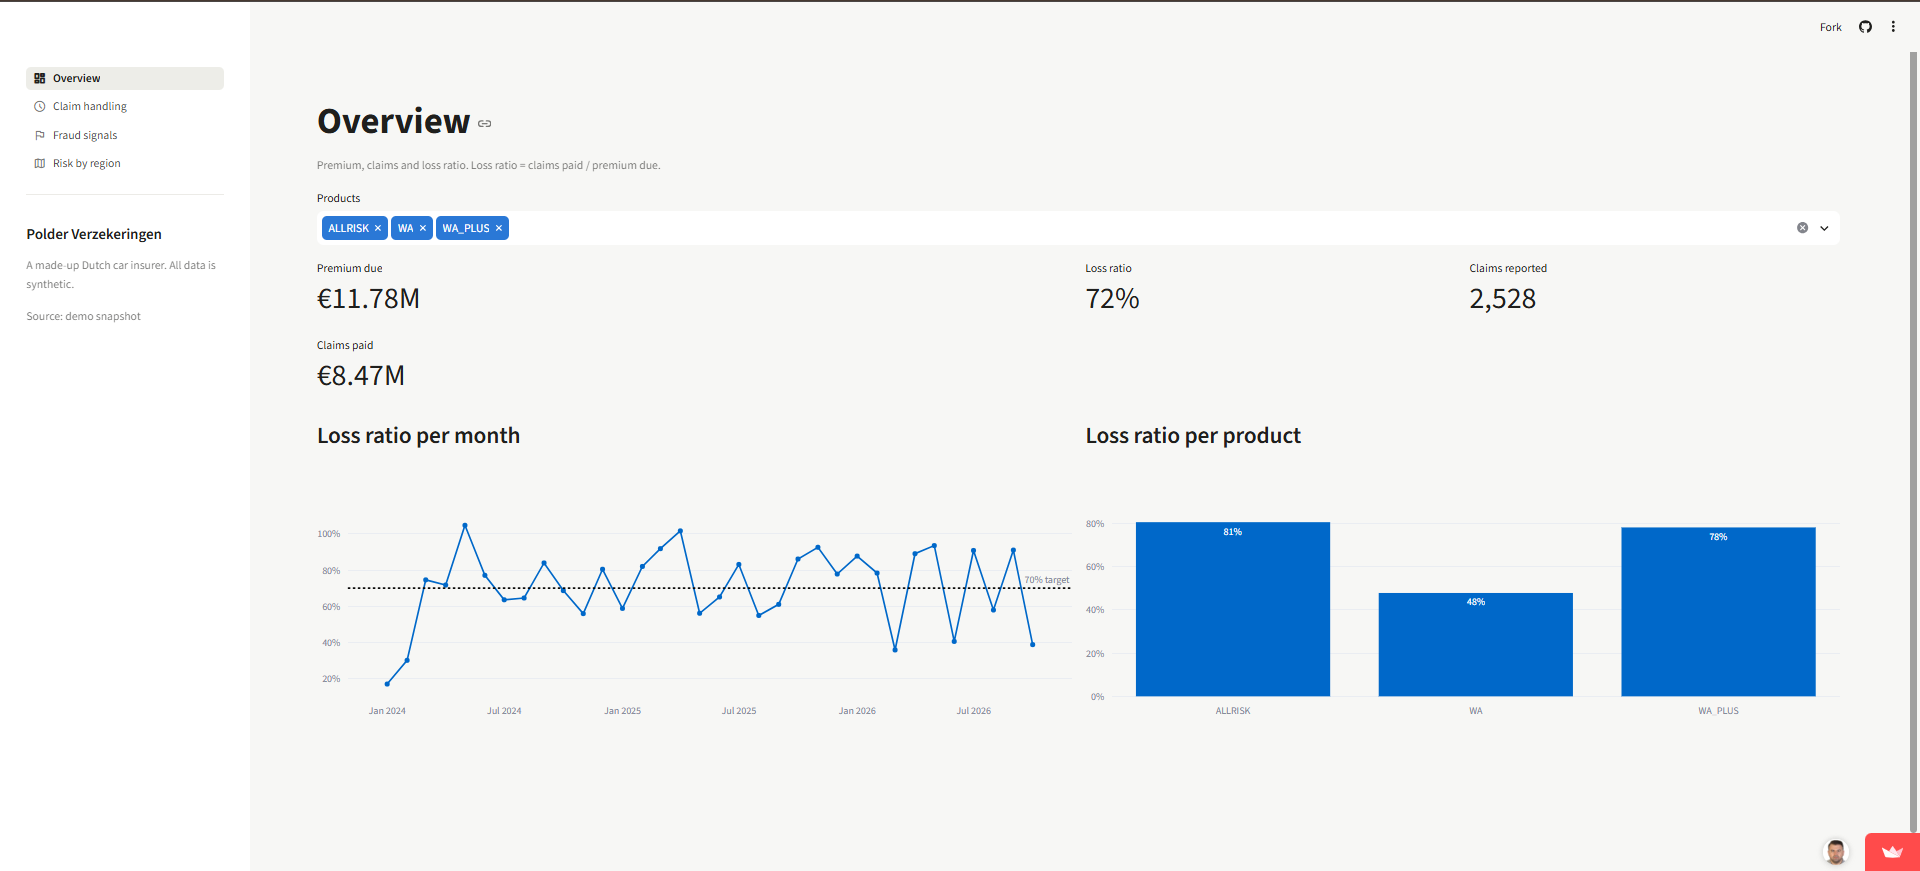
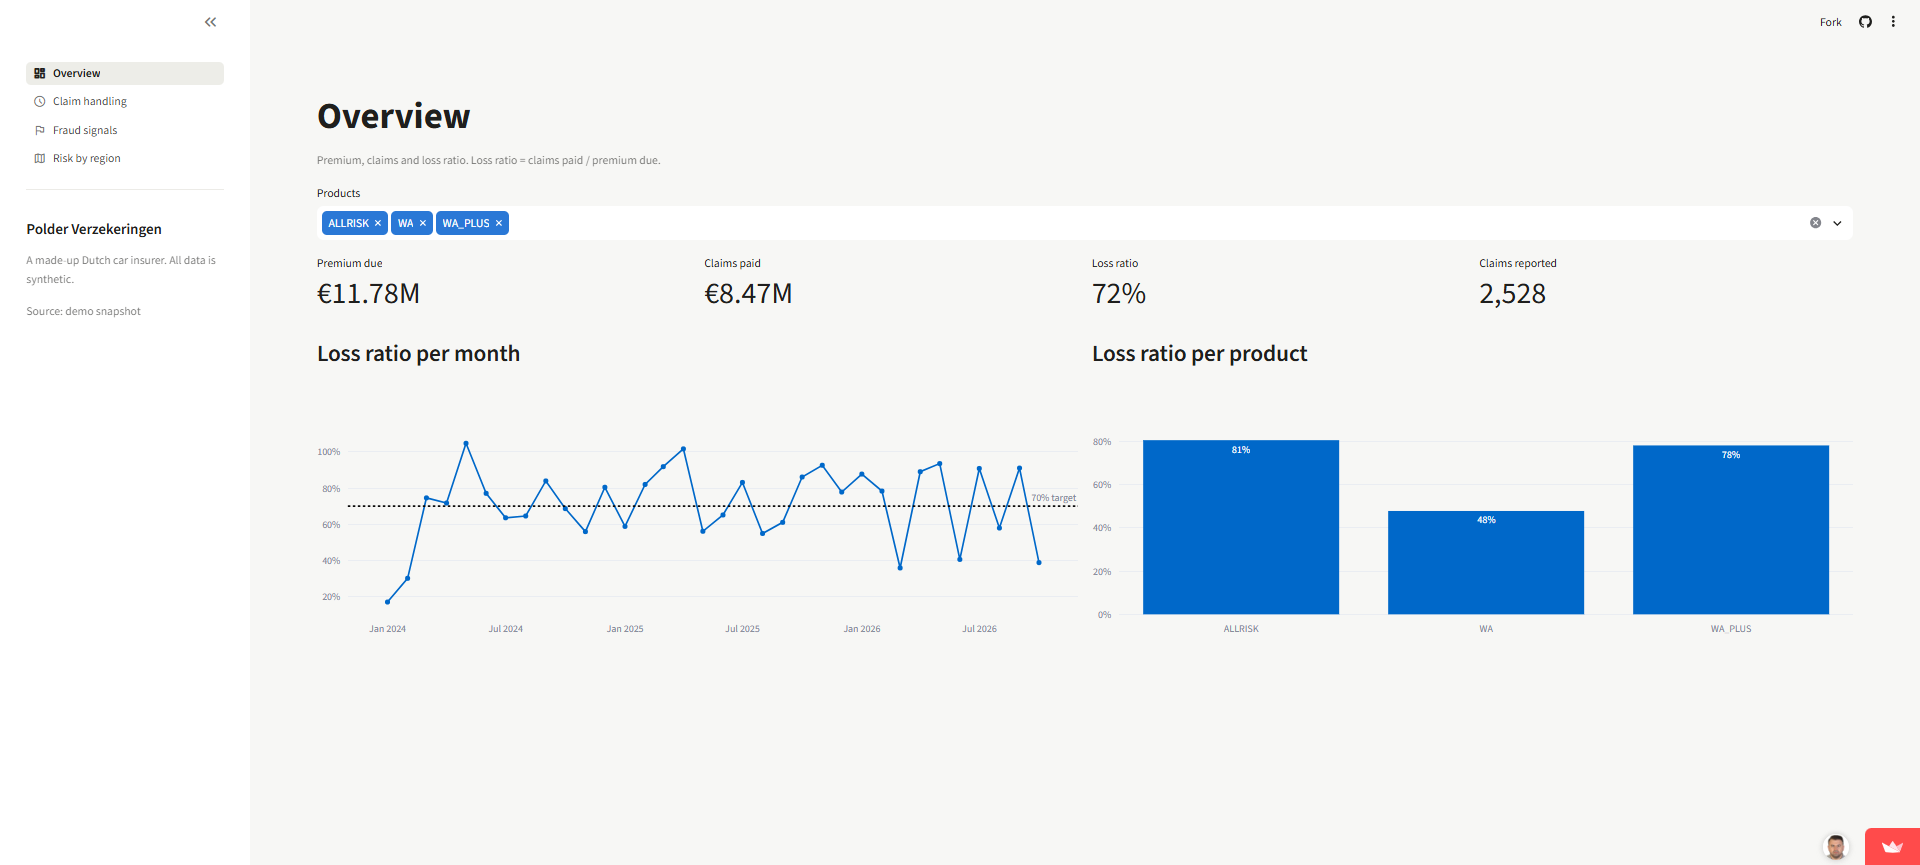
Restructure README with dbt lineage and Airflow sections

diff --git a/README.md b/README.md
@@ -12,29 +12,37 @@ each product, how fast do we pay claims, and which claims look suspicious?
 
 ![Dashboard](docs/dashboard.png)
 
-Stack: Python · Kafka · AWS S3 · Snowflake · dbt · Airflow · Streamlit · GitHub Actions
+Stack: Python · Kafka · AWS S3 · Snowflake · dbt · Airflow · Docker · Streamlit · GitHub Actions
 
 ## Architecture
 
 ![Architecture](docs/architecture.png)
 
+Everything goes through S3 first and only then into Snowflake. That way
+Bronze always has a file I can point at when a number looks wrong.
+
 - **Batch path:** a Python generator plays the policy admin system and
   writes daily CSV extracts. They go to S3 and are loaded into Bronze with
   `COPY INTO` through a storage integration (IAM role, no access keys).
+  The CBS postcode reference takes the same route.
 - **Streaming path:** claim events (reported, assessed, approved/rejected,
-  paid) go through a Kafka topic. A consumer batches them into JSON files
-  in S3, which land in a `VARIANT` column in Bronze.
-- **Modelling:** dbt builds Silver (typed, cleaned, deduplicated, SCD2
-  snapshots of customers and policies) and Gold (a small star schema plus
-  four marts).
-- **Orchestration:** one Airflow DAG runs the whole day, from generating
-  the data to refreshing the dashboard's snapshot.
-
-  ![Orchestration](docs/airflow.png)
+  paid) go through a Kafka topic. A consumer batches them into small JSON
+  files in S3, which land in a `VARIANT` column in Bronze.
+- **Serving:** the dashboard reads Gold live when it runs on my laptop. The
+  public demo reads a Parquet export of Gold instead (more on that below).
 
 More detail and the layer rules are in [docs/architecture.md](docs/architecture.md).
 
-## What's in Gold
+## Modelling with dbt
+
+dbt builds Silver (typed, cleaned, deduplicated, plus SCD2 snapshots of
+customers and policies) and Gold (a small star schema and four marts).
+The green nodes on the left are the raw Bronze tables. Everything to the
+right of them is a dbt model, snapshot or test.
+
+![dbt lineage](docs/lineage.png)
+
+### What's in Gold
 
 | Table                                   | Grain                                     | Used for                                       |
 | --------------------------------------- | ----------------------------------------- | ---------------------------------------------- |
@@ -46,6 +54,20 @@ More detail and the layer rules are in [docs/architecture.md](docs/architecture.
 | `mart_claims_sla`                       | month × claim type                        | handling speed                                 |
 | `mart_fraud_signals`                    | one flagged claim                         | review list                                    |
 | `mart_region_risk`                      | municipality                              | claims per 1,000 policies                      |
+
+## Orchestration with Airflow
+
+One DAG runs a whole business day: generate the extracts and events,
+upload to S3, push the events through Kafka, load Bronze, run `dbt build`
+and refresh the dashboard's Parquet export. Upload and the Kafka path run
+side by side; the load only starts when both are done.
+
+![Airflow DAG run](docs/airflow_dag_status.png)
+
+Airflow, Kafka and Kafka UI all run in Docker Compose on my laptop, so the
+whole stack comes up with one command and goes away with another.
+
+![Airflow in Docker](docs/airflow.png)
 
 ## Things I ran into
 
@@ -75,10 +97,13 @@ More detail and the layer rules are in [docs/architecture.md](docs/architecture.
 - **SCD2 history only starts when the snapshots start.** The backfill is a
   picture of one day, so `dim_customer` and `dim_policy` begin with a single
   version per record. dbt snapshots (timestamp strategy on `updated_at`)
-  add a new version for every house move or renewal from then on. One
-  detail cost me an evening: the snapshot compares timestamps, so
+  add a new version for every house move or renewal from then on. Two
+  details cost me time here. The snapshot compares timestamps, so
   `updated_at` has to be cast to `timestamp_ntz` in Silver, not left as a
-  date.
+  date. And for a while the customer column was called `update_at`, one
+  letter short. Nothing broke, because the snapshot config had the same
+  typo. I only spotted it when reviewing the repo. Renaming the column in
+  the existing snapshot table kept the history instead of starting over.
 - **Two calendars that disagreed.** My first Airflow DAG passed Airflow's
   run date to the generator, but the generator keeps its own calendar and
   refuses to skip a day. After a few days made by hand, the two were out of
@@ -121,6 +146,9 @@ docker compose up -d                         # Kafka, Kafka UI (8080), Airflow (
 streamlit run dashboard/app.py
 ```
 
+After that, open Airflow on http://localhost:8081 and trigger the DAG to
+add one more business day.
+
 ## Repository layout
 
 | Path         | What                                                         |
@@ -138,7 +166,12 @@ streamlit run dashboard/app.py
 
 The postcode reference comes from my
 [nl-housing-data-cleaning](https://github.com/alibaghdadi1368/nl-housing-data-cleaning)
-project (CBS open data, CC-BY 4.0).
+project (CBS open data, CC-BY 4.0). All policy, customer and claim data is
+synthetic.
+
+## License
+
+MIT, see [LICENSE](LICENSE).
 
 ## Contact
 
